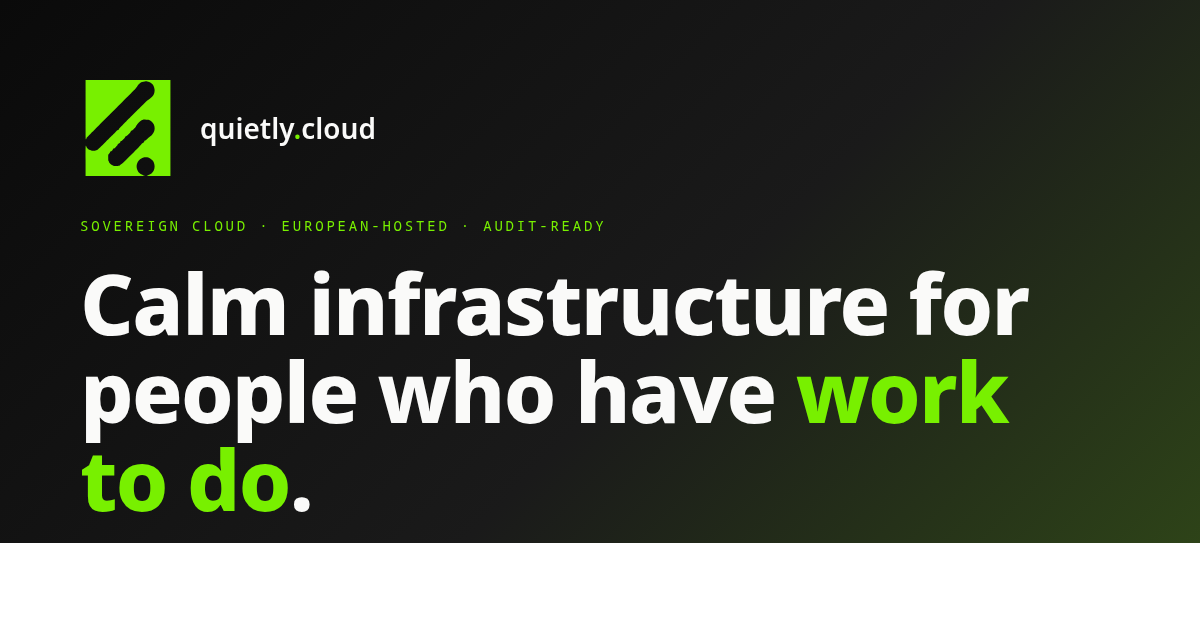
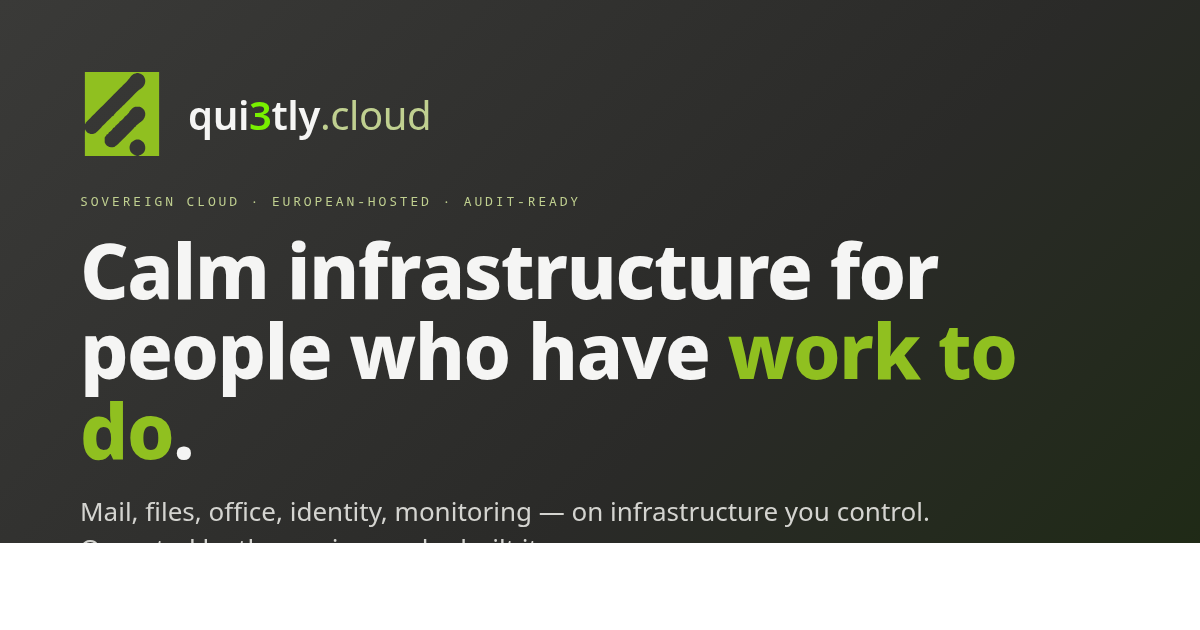
fix(brand): correct names + palette (green-on-GREY, not black)
Names — use them exactly
------------------------
- Company:  quietly IT Solutions    (operator, legal entity)
- Project:  qui3tly.cloud           (service, URL, deck title)
- Mail:     quietly.online
- Personal: quietly.its.me

These are distinct. Never substitute one for the other.
Added Names table to ~/.docs/00-standards/VOICE.md.

Palette — green on GREY, never pure black
-----------------------------------------
  --ink         #2a2a2a  charcoal (primary text)
  --paper       #f5f5f4  warm off-white (page bg)
  --panel-dark  #3a3a38  HERO bg — NEVER pure black
  --accent      #90c020  olive-lime (logo line color)
  --accent-deep #6a8f18  darker olive
  --accent-hi   #78f000  bright lime (highlights only)
  --accent-tint #c0d090  sage (from logo panel)

Previous palette anchored on the 'crni'/'negativ' ad-copy JPGs whose
black backgrounds are matting, not brand. The transparent cropped-ЛОГОТИП
PNG reveals the true composition: olive-lime line-art on sage panel.

Changed
-------
- deck.css: palette block rewritten, hero + CTA gradients re-done with
  charcoal greys (#3a3a38/#2a2a28) — no more pure-black. CTA uses
  sage->olive gradient (#c0d090 -> #90c020 -> #6a8f18).
- deck.html: SVG aria-label 'quietly' -> 'qui3tly.cloud'; cover meta
  credits 'quietly IT Solutions' as operator.
- website/copy/meta.yaml: operator field added; brand tokens rewritten.
- website/v0-prompts/PROMPT.md: tokens block + gradient directives +
[…]

diff --git a/projects/qui3tly.cloud/presentation/deck.css b/projects/qui3tly.cloud/presentation/deck.css
@@ -3,17 +3,22 @@
 * { box-sizing: border-box; margin: 0; padding: 0; }
 
 :root {
-  /* ─── qui3tly brand palette (extracted from personal/design/ logos) ─── */
-  --ink:        #0a0a0a;        /* near-black (logo) */
-  --ink-soft:   #222222;
-  --muted:      #6b7280;
-  --line:       #e5e7eb;
-  --paper:      #fafaf9;
-  --accent:     #78f000;        /* quietly lime (primary) */
-  --accent-deep:#5ab800;        /* quietly lime, darker */
-  --accent-ink: #304818;        /* logo dark green */
-  --accent-tint:#c0d890;        /* pale lime background */
-  --green:      #78f000;        /* alias of accent */
+  /* ─── qui3tly.cloud brand palette (from personal/design/ logos) ─── */
+  /* Mark: green line-art (olive + lime) on pale-grey panel.                */
+  /* Never pure black backgrounds — brand is green on GREY.                 */
+  --ink:        #2a2a2a;        /* charcoal — primary text */
+  --ink-soft:   #4a4a4a;
+  --muted:      #7a7a7a;
+  --line:       #d4d4d4;
+  --paper:      #f5f5f4;        /* warm off-white page bg */
+  --panel:      #e5e5e3;        /* panel / card grey */
+  --panel-dark: #3a3a38;        /* dark grey (hero bg — NOT black) */
+  --panel-deep: #2a2a28;        /* deepest grey */
+  --accent:     #90c020;        /* brand olive-lime (logo line color) */
+  --accent-deep:#6a8f18;        /* darker olive */
+  --accent-hi:  #78f000;        /* bright lime (highlights only) */
+  --accent-tint:#c0d090;        /* sage tint (backgrounds, from logo) */
+  --green:      #90c020;
   --amber:      #d97706;
   --red:        #dc2626;
   --mono: ui-monospace, SFMono-Regular, "SF Mono", Menlo, Consolas, monospace;
@@ -109,14 +114,14 @@ em { color: var(--accent-deep); font-style: normal; font-weight: 600; }
 
 /* Cover slide */
 .cover {
-  background: linear-gradient(135deg, #0a0a0a 0%, #1a1a1a 55%, #304818 100%);
+  background: linear-gradient(135deg, #3a3a38 0%, #2a2a28 60%, #1e2a14 100%);
   color: #f1f5f9;
   justify-content: center;
   text-align: left;
   padding: 80px 64px;
 }
 .cover::before, .cover::after { color: rgba(241,245,249,.55); }
-.cover .kicker { color: #78f000; }
+.cover .kicker { color: #c0d090; }
 .cover h1 {
   color: #f8fafc;
   font-size: 60px;
@@ -263,7 +268,7 @@ pre.topo {
 
 /* Closing CTA */
 .cta {
-  background: linear-gradient(135deg, #78f000 0%, #304818 100%);
+  background: linear-gradient(135deg, #c0d090 0%, #90c020 50%, #6a8f18 100%);
   color: #f8fafc;
   text-align: center;
   justify-content: center;

diff --git a/projects/qui3tly.cloud/presentation/deck.html b/projects/qui3tly.cloud/presentation/deck.html
@@ -10,8 +10,8 @@
 
 <!-- ============ SLIDE 1 — COVER ============ -->
 <section class="slide cover" data-n="01">
-  <svg class="logo" viewBox="0 0 442 500" xmlns="http://www.w3.org/2000/svg" aria-label="quietly" role="img">
-  <title>quietly</title>
+  <svg class="logo" viewBox="0 0 442 500" xmlns="http://www.w3.org/2000/svg" aria-label="qui3tly.cloud" role="img">
+  <title>qui3tly.cloud</title>
   <g transform="translate(0.000000,500.000000) scale(0.100000,-0.100000)"
 fill="currentColor">
 <path d="M0 3444 c0 -1556 0 -1556 25 -1526 14 17 25 40 25 52 0 16 323 346
@@ -45,7 +45,7 @@ c1200 0 1545 3 1542 12 -3 7 -33 19 -69 28 -89 23 -156 60 -214 117 -66 65
   <div class="kicker">sales deck · v1.0 · 2026-04-24</div>
   <h1>qui3tly.cloud</h1>
   <p class="subtitle">Sovereign, self-hosted cloud for humans and small businesses. Mail, collaboration, identity, monitoring — on infrastructure you control.</p>
-  <div class="meta">Operated by one engineer · 2 hosts · ~64 containers · 14/14 certificates valid · 20/20 monitoring targets up</div>
+  <div class="meta">Operated by one engineer (quietly IT Solutions) · 2 hosts · ~64 containers · 14/14 certificates valid · 20/20 monitoring targets up</div>
 </section>
 
 <!-- ============ SLIDE 2 — THE PROBLEM ============ -->

diff --git a/projects/qui3tly.cloud/website/v0-prompts/PROMPT.md b/projects/qui3tly.cloud/website/v0-prompts/PROMPT.md
@@ -6,7 +6,7 @@
 
 ## Instructions
 
-Build a single-page landing site for **qui3tly.cloud** — a sovereign, self-hosted private cloud service (mail, files, office, identity, monitoring) for small businesses and independent professionals in Europe.
+Build a single-page landing site for **qui3tly.cloud** — the self-hosted private cloud service operated by **quietly IT Solutions**. — a sovereign, self-hosted private cloud (mail, files, office, identity, monitoring) for small businesses and independent professionals in Europe. Footer must credit the operator: 'operated by quietly IT Solutions'.
 
 ### Stack
 
@@ -19,18 +19,21 @@ Build a single-page landing site for **qui3tly.cloud** — a sovereign, self-hos
 ### Brand tokens (exact values — extracted from actual quietly logos)
 
 ```css
---ink:          #0a0a0a   /* near-black, primary text + hero background base */
---ink-soft:     #222222
---muted:        #6b7280
---line:         #e5e7eb
---paper:        #fafaf9   /* page background */
---accent:       #78f000   /* quietly LIME — signature color */
---accent-deep:  #5ab800   /* lime hover / borders */
---accent-ink:   #304818   /* logo dark-green, used on pale-lime tint */
---accent-tint:  #c0d890   /* pale lime background wash */
+--ink:          #2a2a2a   /* charcoal — primary text */
+--ink-soft:     #4a4a4a
+--muted:        #7a7a7a
+--line:         #d4d4d4
+--paper:        #f5f5f4   /* warm off-white page bg */
+--panel:        #e5e5e3   /* panel / card grey */
+--panel-dark:   #3a3a38   /* dark GREY hero bg — NEVER pure black */
+--panel-deep:   #2a2a28
+--accent:       #90c020   /* brand olive-lime (line art color) */
+--accent-deep:  #6a8f18   /* darker olive */
+--accent-hi:    #78f000   /* bright lime — highlights only, sparingly */
+--accent-tint:  #c0d090   /* sage tint (from logo panel) */
 ```
 
-**Palette rationale**: the quietly brand is a **bold lime green on near-black**. Use lime sparingly — as the single hero color: CTA buttons, active links, proof-metric numbers, underline on nav items. Everything else is achromatic (black/white/grey) so the lime has impact.
+**Palette rationale**: the qui3tly.cloud brand is **olive-lime green line-art on warm grey**. Hero and CTA backgrounds are **charcoal grey (`#3a3a38`), never pure black**. Use the brighter `--accent-hi` lime (#78f000) sparingly — for CTA buttons, live-metric numbers, and active-link underlines only. The olive (#90c020) is the default accent. Everything else is warm greys and off-whites.
 
 Fonts: `Inter` (sans) + `ui-monospace` (mono). Use monospace for numbers-in-metric cards, kickers, and footer.
 
@@ -47,14 +50,14 @@ Use the **negative** lockup on the hero (dark background) and the **primary** lo
 
 Single page, 8 sections in this order:
 
-1. **Hero** — dark gradient (`from-[#0a0a0a] via-[#1a1a1a] to-[#304818]`) with the `logo-negative.png` top-left. Large headline, one-line subtitle, primary CTA button (goes to `mailto:hello@quietly.online`), small monospace stats line at bottom.
+1. **Hero** — dark grey gradient (`from-[#3a3a38] via-[#2a2a28] to-[#1e2a14]`) — NEVER pure black. Place the `logo-mark.svg` top-left, wordmark 'qui3tly.cloud' next to it (white text, with lime #78f000 dot before 'cloud'). Large headline, one-line subtitle, primary CTA button (goes to `mailto:hello@quietly.online`), small monospace stats line at bottom.
 2. **Problem** — white. Five-bullet list of customer pains. Closes with a one-line "There is a third option" in muted italic.
 3. **Solution** — white. Heading, 2-line intro paragraph, then a **three-column card grid** (Sovereign / Accountable / Transparent) each with a short paragraph.
 4. **Stack** — soft paper background. Heading, then an **8-row table** of capabilities (3 columns: Capability / Powered by / Access at). Monospace for "Access at" column.
 5. **Proof** — dark section or distinctive background. **Eight metric cards** in a 4×2 grid, each card: huge monospace number + small uppercase label under it. At the bottom, one sentence + link to the live status page.
 6. **Engagement** — white. Heading, **5-row table** of stages (Stage / Duration / What happens).
 7. **Governance** — paper background. Heading, intro line, **7-item ordered list** of the workflow steps (large numbers), then a small 5-bullet "Clients get:" list.
-8. **CTA** — lime gradient (`from-[#78f000] to-[#304818]`). Large heading. One-line body. Large pill-shaped CTA with `mailto:` link. Small monospace version-line below.
+8. **CTA** — sage-to-olive gradient (`from-[#c0d090] via-[#90c020] to-[#6a8f18]`). Dark charcoal text (#2a2a2a). One-line body. Large pill-shaped CTA with `mailto:` link. Small monospace version-line below.
 
 ### Typography rules
 
